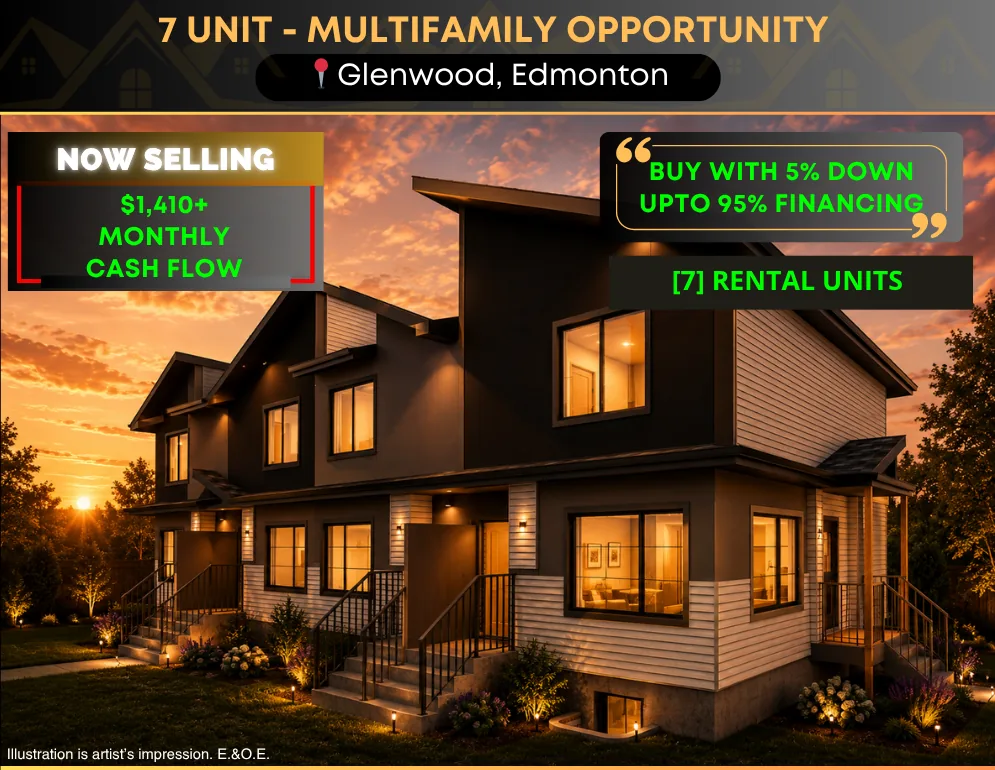
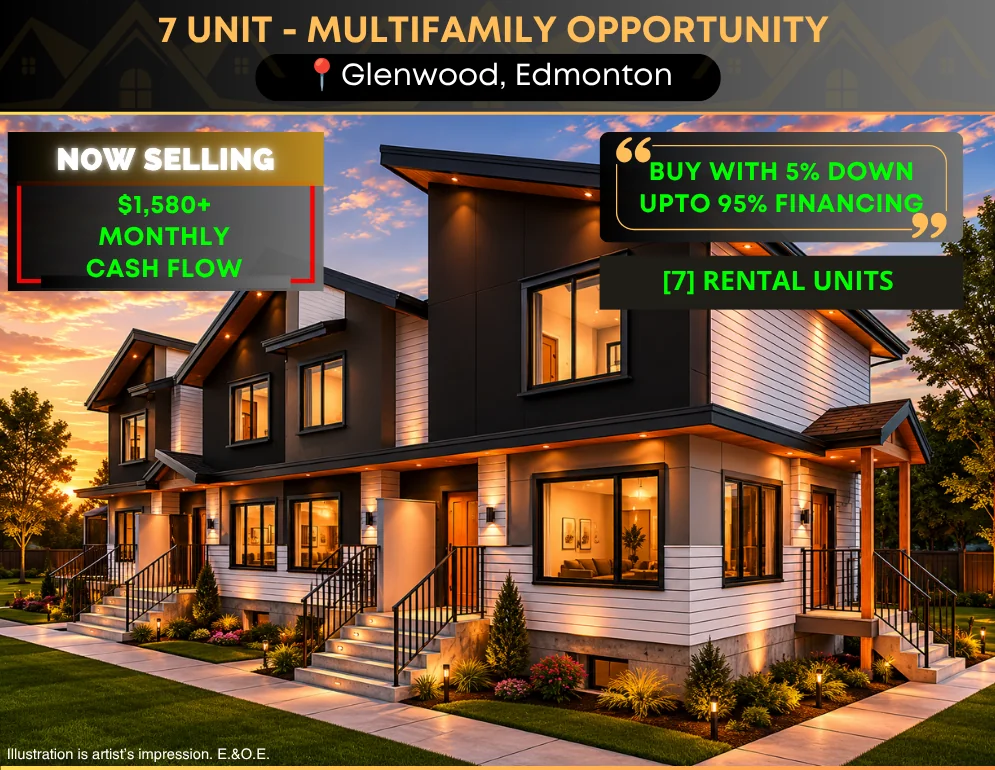
fix(inventory): sync Glenwood listing — cash flow $16,062, DSCR 1.19, new cover image

diff --git a/inventory.html b/inventory.html
@@ -729,11 +729,11 @@ height="0" width="0" style="display:none;visibility:hidden"></iframe></noscript>
             <div class="asset-stats">
               <div class="asset-stat-hero">
                 <div class="asset-stat-hero-label">Annual Cash Flow</div>
-                <div class="asset-stat-hero-value">$16,962</div>
+                <div class="asset-stat-hero-value">$16,062</div>
                 <div class="asset-stat-hero-sub">Pre-tax · Pro-forma estimate</div>
               </div>
               <div class="asset-stat-row">
-                <div class="asset-stat"><div class="asset-stat-label">DSCR</div><div class="asset-stat-value">1.17</div></div>
+                <div class="asset-stat"><div class="asset-stat-label">DSCR</div><div class="asset-stat-value">1.19</div></div>
                 <div></div>
                 <div class="asset-stat"><div class="asset-stat-label">Completion</div><div class="asset-stat-value">Fall 2026</div></div>
               </div>